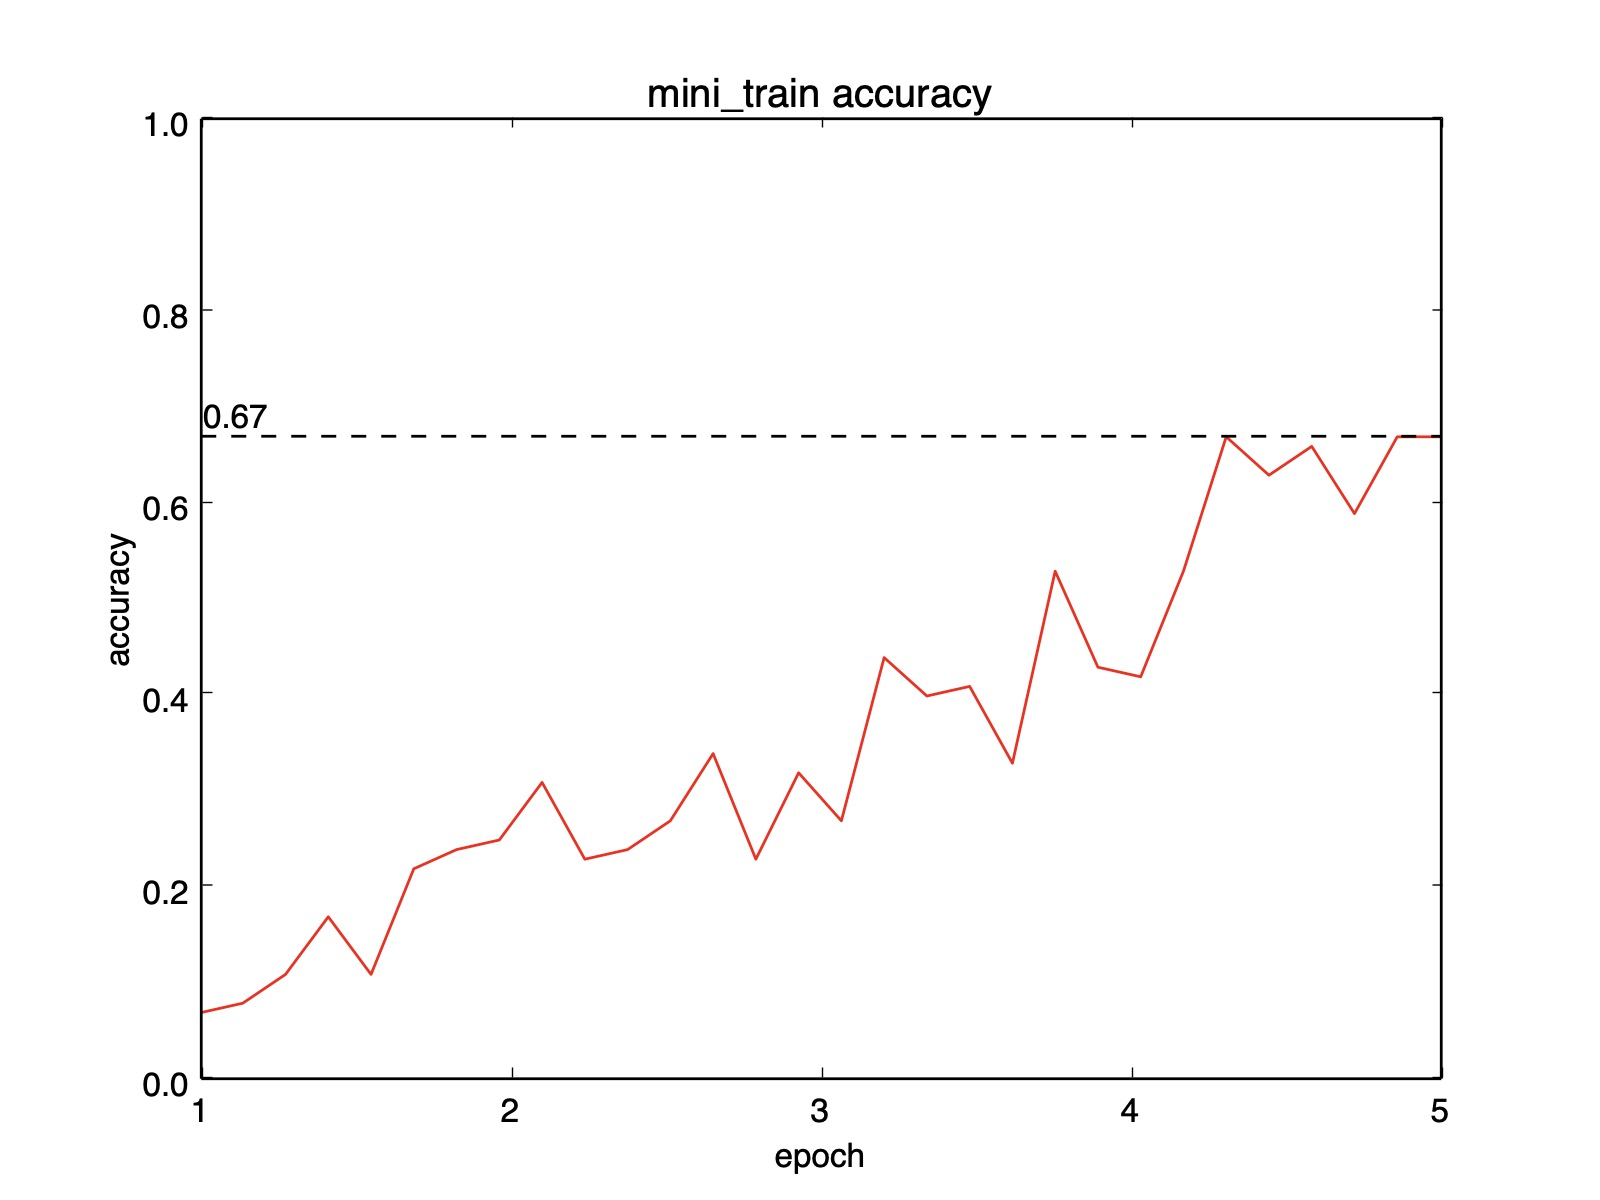
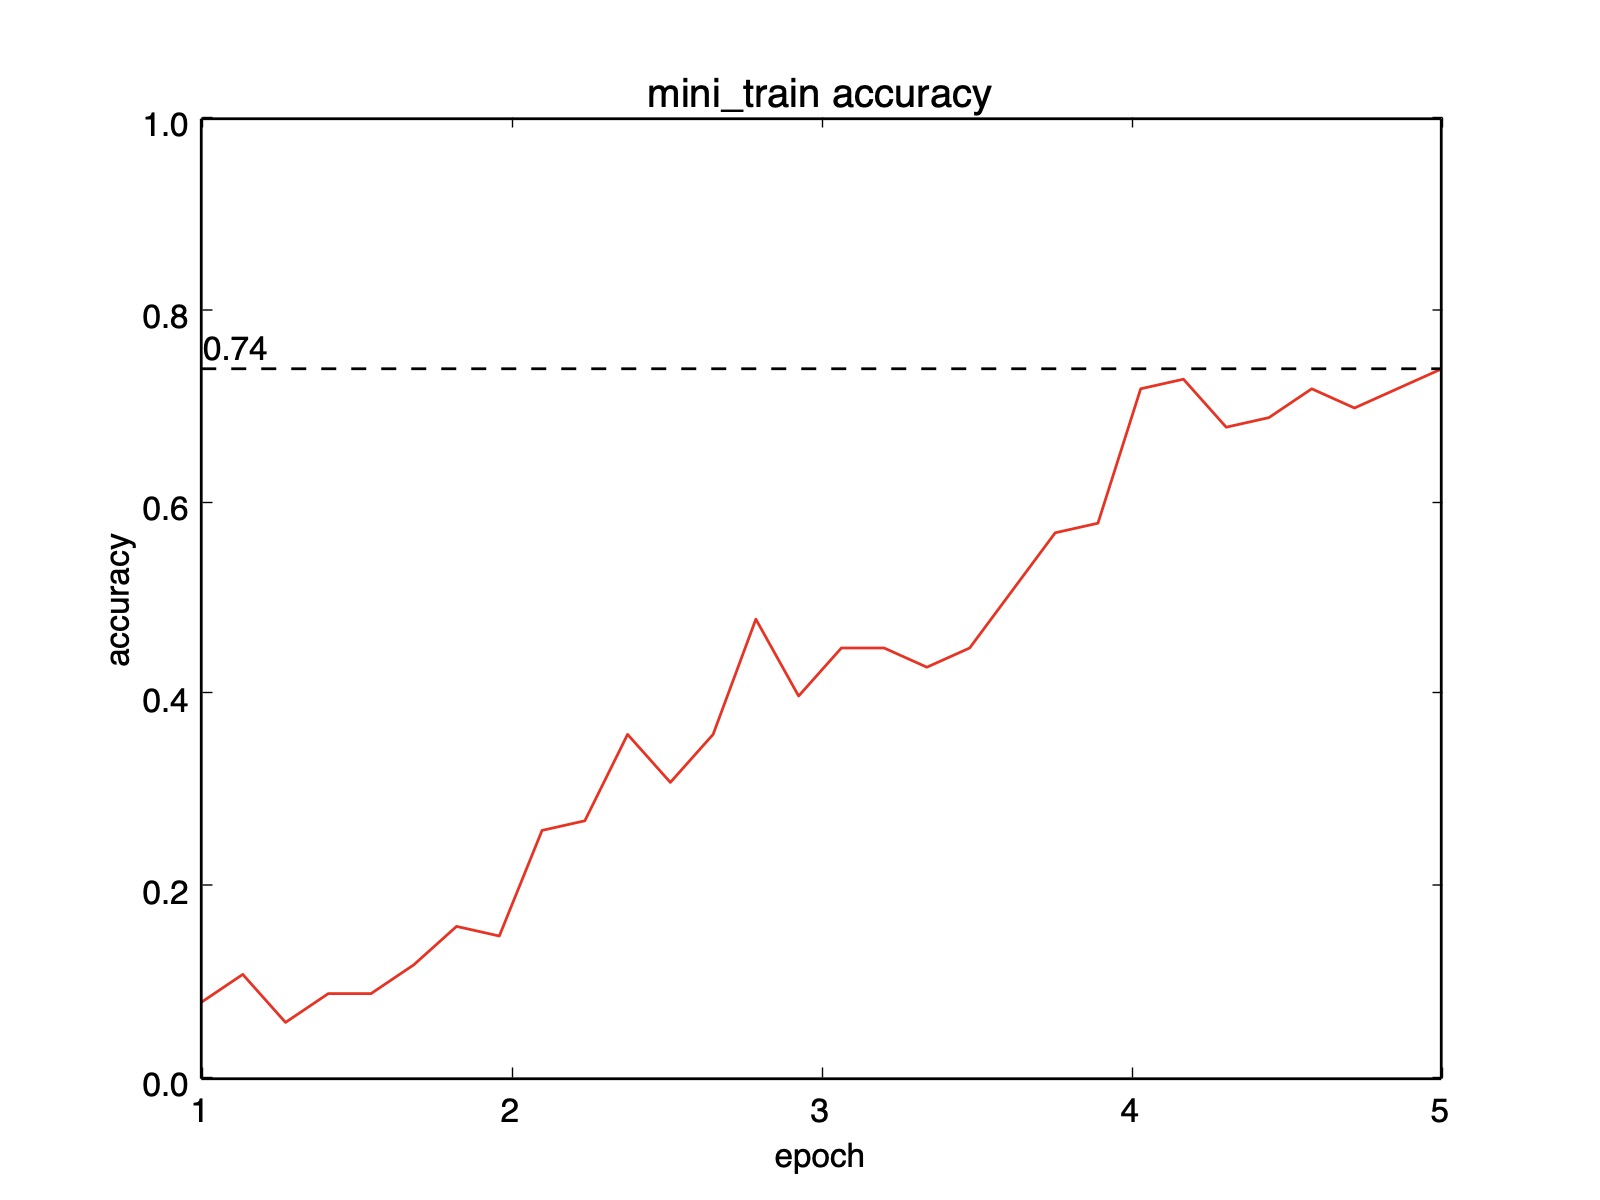
chore

diff --git a/main.py b/main.py
@@ -5,7 +5,7 @@ import numpy as np
 import matplotlib.pyplot as plt
 import matplotlib.ticker as ticker
 
-from layer import *
+from model import *
 from util import getMNIST, plotAccuracy
 
 
@@ -34,12 +34,11 @@ def main():
   test_loss = []
 
   batchsize = 100  # 100
-  n_train = 60000  # 60000
-  n_test = 10000  # 10000
+  n_train = 600  # 60000
+  n_test = 100  # 10000
   epoch = 5
 
   for e in range(1, epoch + 1):
-    print('epoch %d' % e)
     randinds = np.random.permutation(n_train)
     for it in range(0, n_train, batchsize):
       ind = randinds[it:it + batchsize]
@@ -50,8 +49,8 @@ def main():
       end = time.time()
       train_acc.append(acc)
       train_loss.append(loss)
-      print('train iteration %d, elapsed time %f, loss %f, acc %f' %
-            (it // batchsize, end - start, loss, acc))
+      print('[train] epoch %d, iteration %d, elapsed time %f, loss %f, acc %f' %
+            (e, it // batchsize, end - start, loss, acc))
 
     start = time.time()
     acc_ave = 0
@@ -67,7 +66,8 @@ def main():
     end = time.time()
     test_acc.append(acc_ave)
     test_loss.append(loss_ave)
-    print('test, elapsed time %f, loss %f, acc %f' % (end - start, loss_ave, acc_ave))
+    print('[test] epoch %d, elapsed time %f, loss %f, acc %f' %
+          (e, end - start, loss_ave, acc_ave))
 
   plotAccuracy('mini_train', epoch, train_acc)
   plotAccuracy('mini_test', epoch, test_acc)
